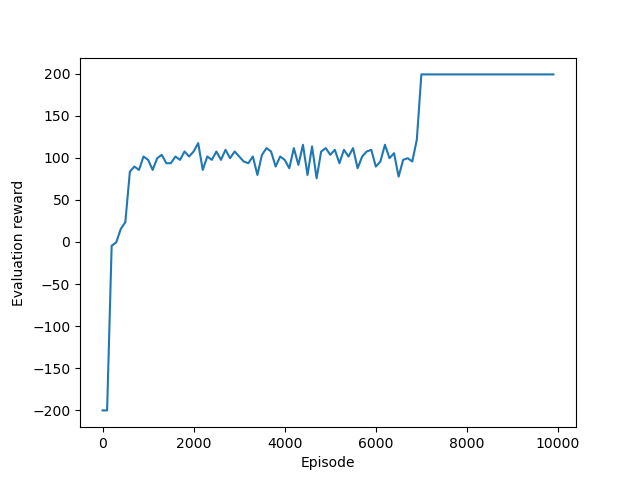
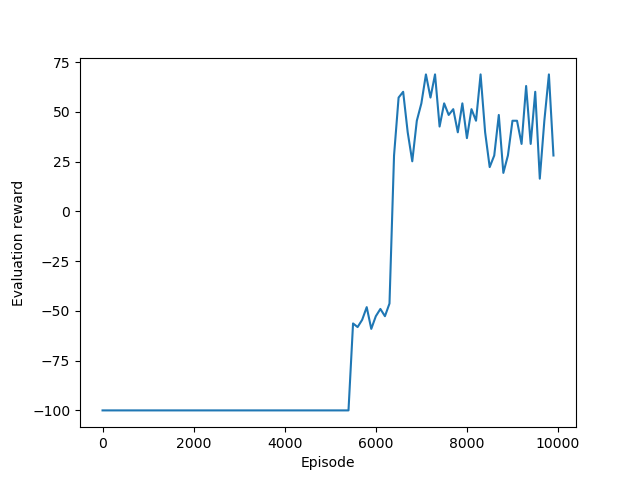
Implement Q-learning maze agent

diff --git a/time_travel/envs/maze.py b/time_travel/envs/maze.py
@@ -9,6 +9,8 @@ from gymnasium import spaces
 GRID_SIZE = 5
 VISIBILITY = 2
 
+MAX_EPISODE_LEN = 100
+
 GOAL_R = 199
 BAD_ACTION_R = -200
 TRAP_R = -200
@@ -16,14 +18,14 @@ AGENTS_CLOSE_R = -100
 TIME_R = -1
 
 class Action(Enum):
-    LEFT = (-1, 0)
-    RIGHT = (1, 0)
-    UP = (0, 1)
-    DOWN = (0, -1)
-    LEFT_WALL = ((-1, 0), 'wall')
-    RIGHT_WALL = ((1, 0), 'wall')
-    UP_WALL = ((0, 1), 'wall')
-    DOWN_WALL = ((0, -1), 'wall')
+    LEFT = 0
+    RIGHT = 1
+    UP = 2
+    DOWN = 3
+    LEFT_WALL = 4
+    RIGHT_WALL = 5
+    UP_WALL = 6
+    DOWN_WALL = 7
     TIME_TRAVEL = 8
     DO_NOTHING = 9
     
@@ -50,7 +52,7 @@ class MazeEnv(gym.Env):
     def __init__(self):
         super().__init__()
         self.action_space = spaces.Discrete(len(Action))
-        self.observation_space = spaces.MultiDiscrete([GRID_SIZE, GRID_SIZE] + [len(CellState) for _ in range(5)])
+        self.observation_space = spaces.MultiDiscrete([GRID_SIZE, GRID_SIZE] + [len(CellState) for _ in range(5)] + [len(AgentType)])
 
     def reset(self, is_original_timeline=True):
         self.t = 0
@@ -80,6 +82,17 @@ class MazeEnv(gym.Env):
         self.time_travel_agent_pos = (GRID_SIZE-1, GRID_SIZE-1)
 
         return self._get_obs()
+    
+    def action_to_dx_dy(self, action: Action):
+        match action:
+            case Action.LEFT | Action.LEFT_WALL:
+                return (-1, 0)
+            case Action.RIGHT | Action.RIGHT_WALL:
+                return (1, 0)
+            case Action.UP | Action.UP_WALL:
+                return (0, 1)
+            case Action.DOWN | Action.DOWN_WALL:
+                return (0, -1)
         
     def step(self, joint_action: tuple[Action, Action]):
         normal_action, time_travel_action = joint_action
@@ -92,9 +105,9 @@ class MazeEnv(gym.Env):
 
         if (not self._check_valid_action(normal_action, AgentType.NORMAL) or
             not self._check_valid_action(time_travel_action, AgentType.TIME_TRAVELING)):
-            print("Invalid action")
-            print(normal_action, self._check_valid_action(normal_action, AgentType.NORMAL))
-            print(time_travel_action, self._check_valid_action(time_travel_action, AgentType.TIME_TRAVELING))
+            # print("Invalid action")
+            # print(normal_action, self._check_valid_action(normal_action, AgentType.NORMAL))
+            # print(time_travel_action, self._check_valid_action(time_travel_action, AgentType.TIME_TRAVELING))
             truncated = True
             reward = BAD_ACTION_R
             return obs, reward, terminated, truncated, info
@@ -102,10 +115,14 @@ class MazeEnv(gym.Env):
         self.t += 1
         reward += TIME_R
 
+        if self.t >= MAX_EPISODE_LEN:
+            truncated = True
+            return obs, reward, terminated, truncated, info
+
         # normal agent move
         if normal_action in {Action.LEFT, Action.RIGHT, Action.UP, Action.DOWN}:
             x, y = self.normal_agent_pos
-            dx, dy = normal_action.value
+            dx, dy = self.action_to_dx_dy(normal_action)
             proposed_new_position = (x + dx, y + dy)
             if self.grid[proposed_new_position] != CellState.WALL:
                 self.normal_agent_pos = proposed_new_position
@@ -116,6 +133,10 @@ class MazeEnv(gym.Env):
                 reward -= GOAL_R  # undo goal reward
                 self.reset(is_original_timeline=False)
                 return self._get_obs(), reward, terminated, truncated, info
+            elif normal_action == Action.DO_NOTHING:
+                reward = 0
+                terminated = True
+                return self._get_obs(), reward, terminated, truncated, info
             elif not self.is_original_timeline:
                 terminated = True
                 reward += GOAL_R
@@ -125,7 +146,7 @@ class MazeEnv(gym.Env):
             # time travel agent move
             if time_travel_action in {Action.LEFT, Action.RIGHT, Action.UP, Action.DOWN}:
                 x, y = self.time_travel_agent_pos
-                dx, dy = time_travel_action.value
+                dx, dy = self.action_to_dx_dy(time_travel_action)
                 proposed_new_position = (x + dx, y + dy)
                 if self.grid[proposed_new_position] != CellState.WALL:
                     self.time_travel_agent_pos = proposed_new_position
@@ -140,7 +161,7 @@ class MazeEnv(gym.Env):
             # time travel agent place wall
             if time_travel_action in {Action.LEFT_WALL, Action.RIGHT_WALL, Action.UP_WALL, Action.DOWN_WALL}:
                 x, y = self.time_travel_agent_pos
-                dx, dy = time_travel_action.value[0]
+                dx, dy = self.action_to_dx_dy(time_travel_action)
                 proposed_wall_pos = (x + dx, y + dy)
                 if self.grid[proposed_wall_pos] == CellState.EMPTY:
                     self.grid[proposed_wall_pos] = CellState.WALL

diff --git a/scripts/run_maze.py b/scripts/run_maze.py
@@ -1,0 +1,115 @@
+from time_travel.envs.maze import Action, MazeEnv
+from time_travel.agents.maze_agent import MazeAgent
+from tqdm import tqdm
+import matplotlib.pyplot as plt
+import numpy as np
+
+def main():
+    env = MazeEnv()
+    agent = MazeAgent(env)
+
+    total_rewards = []
+    rollouts = []
+
+    eval_rewards = []
+
+    max_epsilon = 0.8
+    max_episodes = 10000
+
+    for episode_idx in tqdm(range(max_episodes)):
+        obs = env.reset()
+        env_running = True
+
+        rollout = []
+        total_reward = 0
+
+        epsilon = max_epsilon * (1 - np.sqrt(episode_idx / max_episodes))
+
+        while env_running:
+            primary_agent_action = None
+            prev_obs = None
+
+            if env.is_original_timeline:
+                normal_action = agent.act(obs[0], epsilon=epsilon, deterministic=False)
+                time_travel_action = None
+                primary_agent_action = normal_action
+                prev_obs = obs[0]
+            else:
+                if obs[0] == rollout[env.t][0]:
+                    normal_action = rollout[env.t][1]
+                else:
+                    normal_action = agent.act(obs[0], deterministic=True)
+                time_travel_action = agent.act(obs[1], epsilon=epsilon, deterministic=False)
+                primary_agent_action = time_travel_action
+                prev_obs = obs[1]
+
+            obs, reward, terminated, truncated, info = env.step((normal_action, time_travel_action))
+            env_running = not (terminated or truncated)
+
+            curr_obs = obs[0] if env.is_original_timeline else obs[1]
+            
+            total_reward += reward
+            rollout.append((prev_obs, primary_agent_action, reward, curr_obs))
+
+            # if not env_running:
+            #     print(f"success: {reward > 0}, time travel: {not env.is_original_timeline}")
+            # print(f"t={info['t']} ({env_running=}): {rollout[-1]}")
+        
+        for s, a, r, sp in rollout:
+            agent.update(s, a, sp, r)
+        
+        total_rewards.append(total_reward)
+        rollouts.append(rollout)
+
+        if episode_idx % 100 == 0:
+            eval_rewards.append(eval(env, agent))
+            print(f"Eval at {episode_idx=}: {eval_rewards[-1]}")
+
+    for i in range(len(rollouts) - 5, len(rollouts)):
+        print("\nNEW EPISODE")
+        for step in rollouts[i]:
+            print(step)
+    # print(total_rewards)
+
+    plt.xlabel("Episode")
+    plt.ylabel("Evaluation reward")
+    plt.plot(range(0, max_episodes, 100), eval_rewards)
+    plt.savefig('eval_rew.png')
+    
+
+
+def eval(env, agent):
+    total_reward = 0
+    num_eval_episodes = 100
+    for _ in range(num_eval_episodes):
+        obs = env.reset()
+        env_running = True
+
+        episode_reward = 0
+
+        while env_running:
+
+            if env.is_original_timeline:
+                normal_action = agent.act(obs[0], deterministic=True)
+                time_travel_action = None
+                primary_agent_action = normal_action
+            else:
+                normal_action = agent.act(obs[0], deterministic=True)
+                time_travel_action = agent.act(obs[1], deterministic=True)
+                primary_agent_action = time_travel_action
+
+            obs, reward, terminated, truncated, info = env.step((normal_action, time_travel_action))
+            env_running = not (terminated or truncated)
+            total_reward += reward
+            episode_reward += reward
+
+            
+            # if not env_running:
+            #     print(f"success: {episode_reward > 0}, time travel: {not env.is_original_timeline}")
+            #     print()
+
+    return total_reward / num_eval_episodes
+
+
+if __name__ == "__main__":
+    main()

diff --git a/time_travel/agents/maze_agent.py b/time_travel/agents/maze_agent.py
@@ -1,0 +1,42 @@
+import numpy as np
+
+from time_travel.envs.maze import *
+
+class MazeAgent:
+
+    def __init__(self, env: MazeEnv, lr: float = 1e-2):
+        self.env = env
+        self.q_values = np.zeros((np.prod(self.env.observation_space.nvec) + 1, self.env.action_space.n))
+        self.lr = lr
+
+        self.truncated_obs_idx = self.q_values.shape[0] - 1
+
+    def _obs_to_idx(self, obs: Observation):
+        if obs is None:
+            return self.truncated_obs_idx
+        
+        return obs.position[0] * (GRID_SIZE * len(CellState) ** 5 * len(AgentType)) + \
+               obs.position[1] * (len(CellState) ** 5 * len(AgentType)) + \
+               sum([obs.cells[i].value * (len(CellState) ** (4-i) * len(AgentType)) for i in range(5)]) + \
+               obs.agent_type.value
+    
+    def act(self, obs: Observation, epsilon: float = 0, deterministic: bool = True):
+        obs_idx = self._obs_to_idx(obs)
+        obs_qs = self.q_values[obs_idx]
+
+        if deterministic:
+            action_idx = np.argmax(obs_qs)
+        elif np.random.rand() > epsilon:
+            action_idx = np.random.choice(np.arange(self.env.action_space.n), p=(np.exp(obs_qs) / np.sum(np.exp(obs_qs))))
+        else:
+            action_idx = np.random.choice(np.arange(self.env.action_space.n))
+
+        return Action(value=action_idx)
+    
+    def update(self, obs: Observation, action: Action, next_obs: Observation, reward: float):
+        obs_idx = self._obs_to_idx(obs)
+        next_obs_idx = self._obs_to_idx(next_obs)
+
+        next_q = np.max(self.q_values[next_obs_idx])
+        this_q = self.q_values[obs_idx][action.value]
+        self.q_values[obs_idx][action.value] += self.lr * (reward + next_q - this_q)
